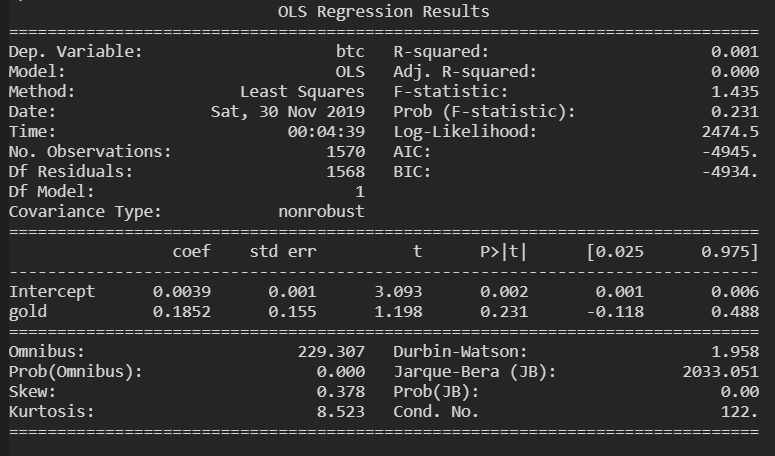
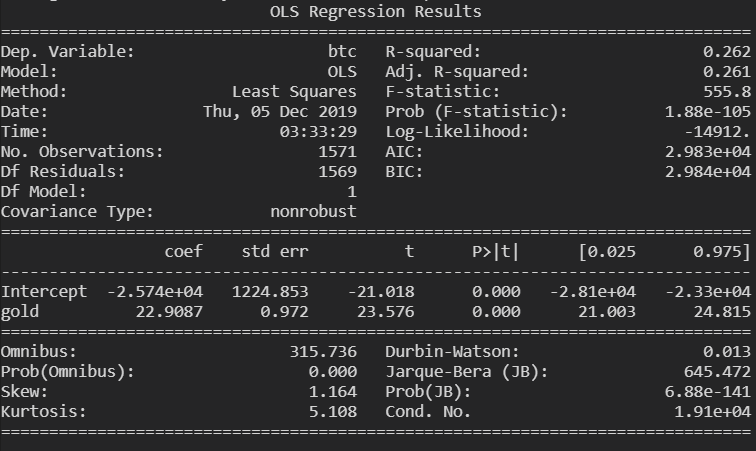
update

Changed region(s): [[0.0, 0.0, 1.0, 0.9623], [0.4259, 0.5898, 0.4563, 0.6208], [0.2738, 0.5898, 0.3042, 0.6208]]

diff --git a/bitcoin.py b/bitcoin.py
@@ -12,9 +12,12 @@ import csv
 
 bitcoin = pd.read_csv(filepath,index_col=1)
 
-bitcoin.head()
 
-bitcoin.describe()
+print(bitcoin.head())
+
+print(bitcoin.describe())
+
+print(bitcoin.dtypes)
 # %% make histogram plot
 # import matplotlib
 # import matplotlib.pyplot as plt
@@ -27,8 +30,6 @@ bitcoin.describe()
 # plt.savefig('bitcoinprice.png')
 
 
-
-
 # %% 
 ######################## import S&P500 stock price ##########################3
 
@@ -36,8 +37,8 @@ path2add = 'D:\\Study\\GWU\\Data Mining\\project'
 filepath = os.path.join( dirpath, path2add ,'^GSPC.csv')
 stockindex = pd.read_csv(filepath,index_col=0)
 
-stockindex.head()
-
+print(stockindex.head())
+print(stockindex.dtypes)
 
 # %% 
 
@@ -65,40 +66,40 @@ import matplotlib.pyplot as plt
 
 
 # # %%
-plt.figure(figsize=(10,8))
-top = plt.subplot2grid((4,4), (0, 0), rowspan=3, colspan=4)
-bottom = plt.subplot2grid((4,4), (3,0), rowspan=3, colspan=4)
-top.plot(BTC.index, BTC['Closing Price (USD)']) #CMT.index gives the dates
-bottom.plot(SP500.index, SP500['Close']) 
+# plt.figure(figsize=(10,8))
+# top = plt.subplot2grid((4,4), (0, 0), rowspan=3, colspan=4)
+# bottom = plt.subplot2grid((4,4), (3,0), rowspan=3, colspan=4)
+# top.plot(BTC.index, BTC['Closing Price (USD)']) #CMT.index gives the dates
+# bottom.plot(SP500.index, SP500['Close']) 
  
-# set the labels
-top.axes.get_xaxis().set_visible(False)
-top.set_title('Bitcoin Data')
-top.set_ylabel('Closing Price (USD)')
-bottom.set_title('S&P 500 Data')
-bottom.set_ylabel('Close')
-ax = plt.gca()
-ax.xaxis.set_major_locator(matplotlib.dates.YearLocator())
-ax.xaxis.set_major_formatter(matplotlib.dates.DateFormatter('%Y'))
+# # set the labels
+# top.axes.get_xaxis().set_visible(False)
+# top.set_title('Bitcoin Data')
+# top.set_ylabel('Closing Price (USD)')
+# bottom.set_title('S&P 500 Data')
+# bottom.set_ylabel('Close')
+# ax = plt.gca()
+# ax.xaxis.set_major_locator(matplotlib.dates.YearLocator())
+# ax.xaxis.set_major_formatter(matplotlib.dates.DateFormatter('%Y'))
 #ax.tick_params(pad=20)
 
-fig = plt.figure()
-# Divide the figure into a 2x1 grid, and give me the first section
-ax1 = fig.add_subplot()
+# fig = plt.figure()
+# # Divide the figure into a 2x1 grid, and give me the first section
+# ax1 = fig.add_subplot()
 
-# Divide the figure into a 2x1 grid, and give me the second section
-ax2 = ax1.twinx()
+# # Divide the figure into a 2x1 grid, and give me the second section
+# ax2 = ax1.twinx()
 
-BTC.plot( y='Closing Price (USD)', ax=ax1, figsize=(10, 8), legend=True, label = 'BTC')
-ax1.xaxis.set_label_text("")
-ax1.set_title("Bitcoin Index vs S&P 500")
-ax1.set_ylabel('Closing Price (USD)')
-ax1.legend(loc=1)
+# BTC.plot( y='Closing Price (USD)', ax=ax1, figsize=(10, 8), legend=True, label = 'BTC')
+# ax1.xaxis.set_label_text("")
+# ax1.set_title("Bitcoin Index vs S&P 500")
+# ax1.set_ylabel('Closing Price (USD)')
+# ax1.legend(loc=1)
 
-SP500.plot( y='Close', kind='line', ax=ax2, figsize=(10, 8), label = 'S&P 500', color = 'red')
-ax2.yaxis.set_label_text("")
-ax2.set_ylabel('Closing Price (USD)')
-ax2.legend(loc=2)
+# SP500.plot( y='Close', kind='line', ax=ax2, figsize=(10, 8), label = 'S&P 500', color = 'red')
+# ax2.yaxis.set_label_text("")
+# ax2.set_ylabel('Closing Price (USD)')
+# ax2.legend(loc=2)
 
 #%%
 
@@ -138,23 +139,23 @@ ax2.tick_params(axis='y', colors="red")
 # plt.ylabel('Percentage(%)')
 # plt.show()
 
-fig = plt.figure()
-# Divide the figure into a 2x1 grid, and give me the first section
-ax1 = fig.add_subplot(211)
+# fig = plt.figure()
+# # Divide the figure into a 2x1 grid, and give me the first section
+# ax1 = fig.add_subplot(211)
 
-# Divide the figure into a 2x1 grid, and give me the second section
-ax2 = fig.add_subplot(212)
+# # Divide the figure into a 2x1 grid, and give me the second section
+# ax2 = fig.add_subplot(212)
 
-BTCchange.plot( y='Closing Price (USD)', ax=ax1, legend=False, figsize=(15, 8))
-ax1.xaxis.set_label_text("")
-ax1.set_title("Bitcoin Data")
-ax1.set_ylabel('Price Change %')
+# BTCchange.plot( y='Closing Price (USD)', ax=ax1, legend=False, figsize=(15, 8))
+# ax1.xaxis.set_label_text("")
+# ax1.set_title("Bitcoin Data")
+# ax1.set_ylabel('Price Change %')
 
-SPchange.plot( y='Close', kind='line', ax=ax2, figsize=(15, 8))
-ax2.yaxis.set_label_text("")
-ax2.set_title("S&P 500 Data")
-ax2.set_ylabel('Price Change %')
-fig.subplots_adjust(hspace=0.3)
+# SPchange.plot( y='Close', kind='line', ax=ax2, figsize=(15, 8))
+# ax2.yaxis.set_label_text("")
+# ax2.set_title("S&P 500 Data")
+# ax2.set_ylabel('Price Change %')
+# fig.subplots_adjust(hspace=0.3)
 
 # %% 
 
@@ -164,6 +165,7 @@ filepath = os.path.join( dirpath, path2add ,'WGC-GOLD_DAILY_USD.csv')
 goldindex= pd.read_csv(filepath, index_col=0)
 
 goldindex.head()
+goldindex.dtypes
 
 goldchange = goldindex.pct_change()
 
@@ -273,10 +275,39 @@ ax2.set_title("Gold Data")
 ax2.set_ylabel('Value Change %')
 fig.subplots_adjust(hspace=0.3)
 
+# #%%
+# from statsmodels.graphics.tsaplots import plot_acf
+# from matplotlib import pyplot
+
+# plot_acf(BTC)
+# pyplot.show()
+
+# #%%
+
+# from statsmodels.graphics.tsaplots import plot_pacf
+# plot_pacf(BTC, lags=100)
+# pyplot.show()
+#%%
+################ Try to find correlation#######################
+
+from statsmodels.formula.api import ols
+
+BTCSP = pd.merge(BTC, SP500, on='Date')
+BTCSP = BTCSP.rename(columns={"Closing Price (USD)": "btc", "Close": "sp500"}).dropna()
+
+modelBTCSP = ols(formula='btc ~ sp500', data=BTCSP).fit()
+print( modelBTCSP.summary() )
+
+##### gold
+BTCGOLD = pd.merge(BTC, goldindex, on='Date')
+BTCGOLD = BTCGOLD.rename(columns={"Closing Price (USD)": "btc", "Value": "gold"}).dropna()
+
+modelBTCGOLD = ols(formula='btc ~ gold', data=BTCGOLD).fit()
+print( modelBTCGOLD.summary() )
 
 
 # %%
-################ Try to find correlation #######################
+################ Try to find correlation of change %#######################
 
 #####sp500
 from statsmodels.formula.api import ols
@@ -293,9 +324,25 @@ BTCGOLDchange = BTCGOLDchange.rename(columns={"Closing Price (USD)": "btc", "Val
 modelBTCGOLD = ols(formula='btc ~ gold', data=BTCGOLDchange).fit()
 print( modelBTCGOLD.summary() )
 
+#%%
+from fbprophet import Prophet
+
+df_prophetb = Prophet()
+
+
 
 # %%
 
+
+
+# %%
+
+
+# %%
+
+
+
+# %%
 
 
 # %%
